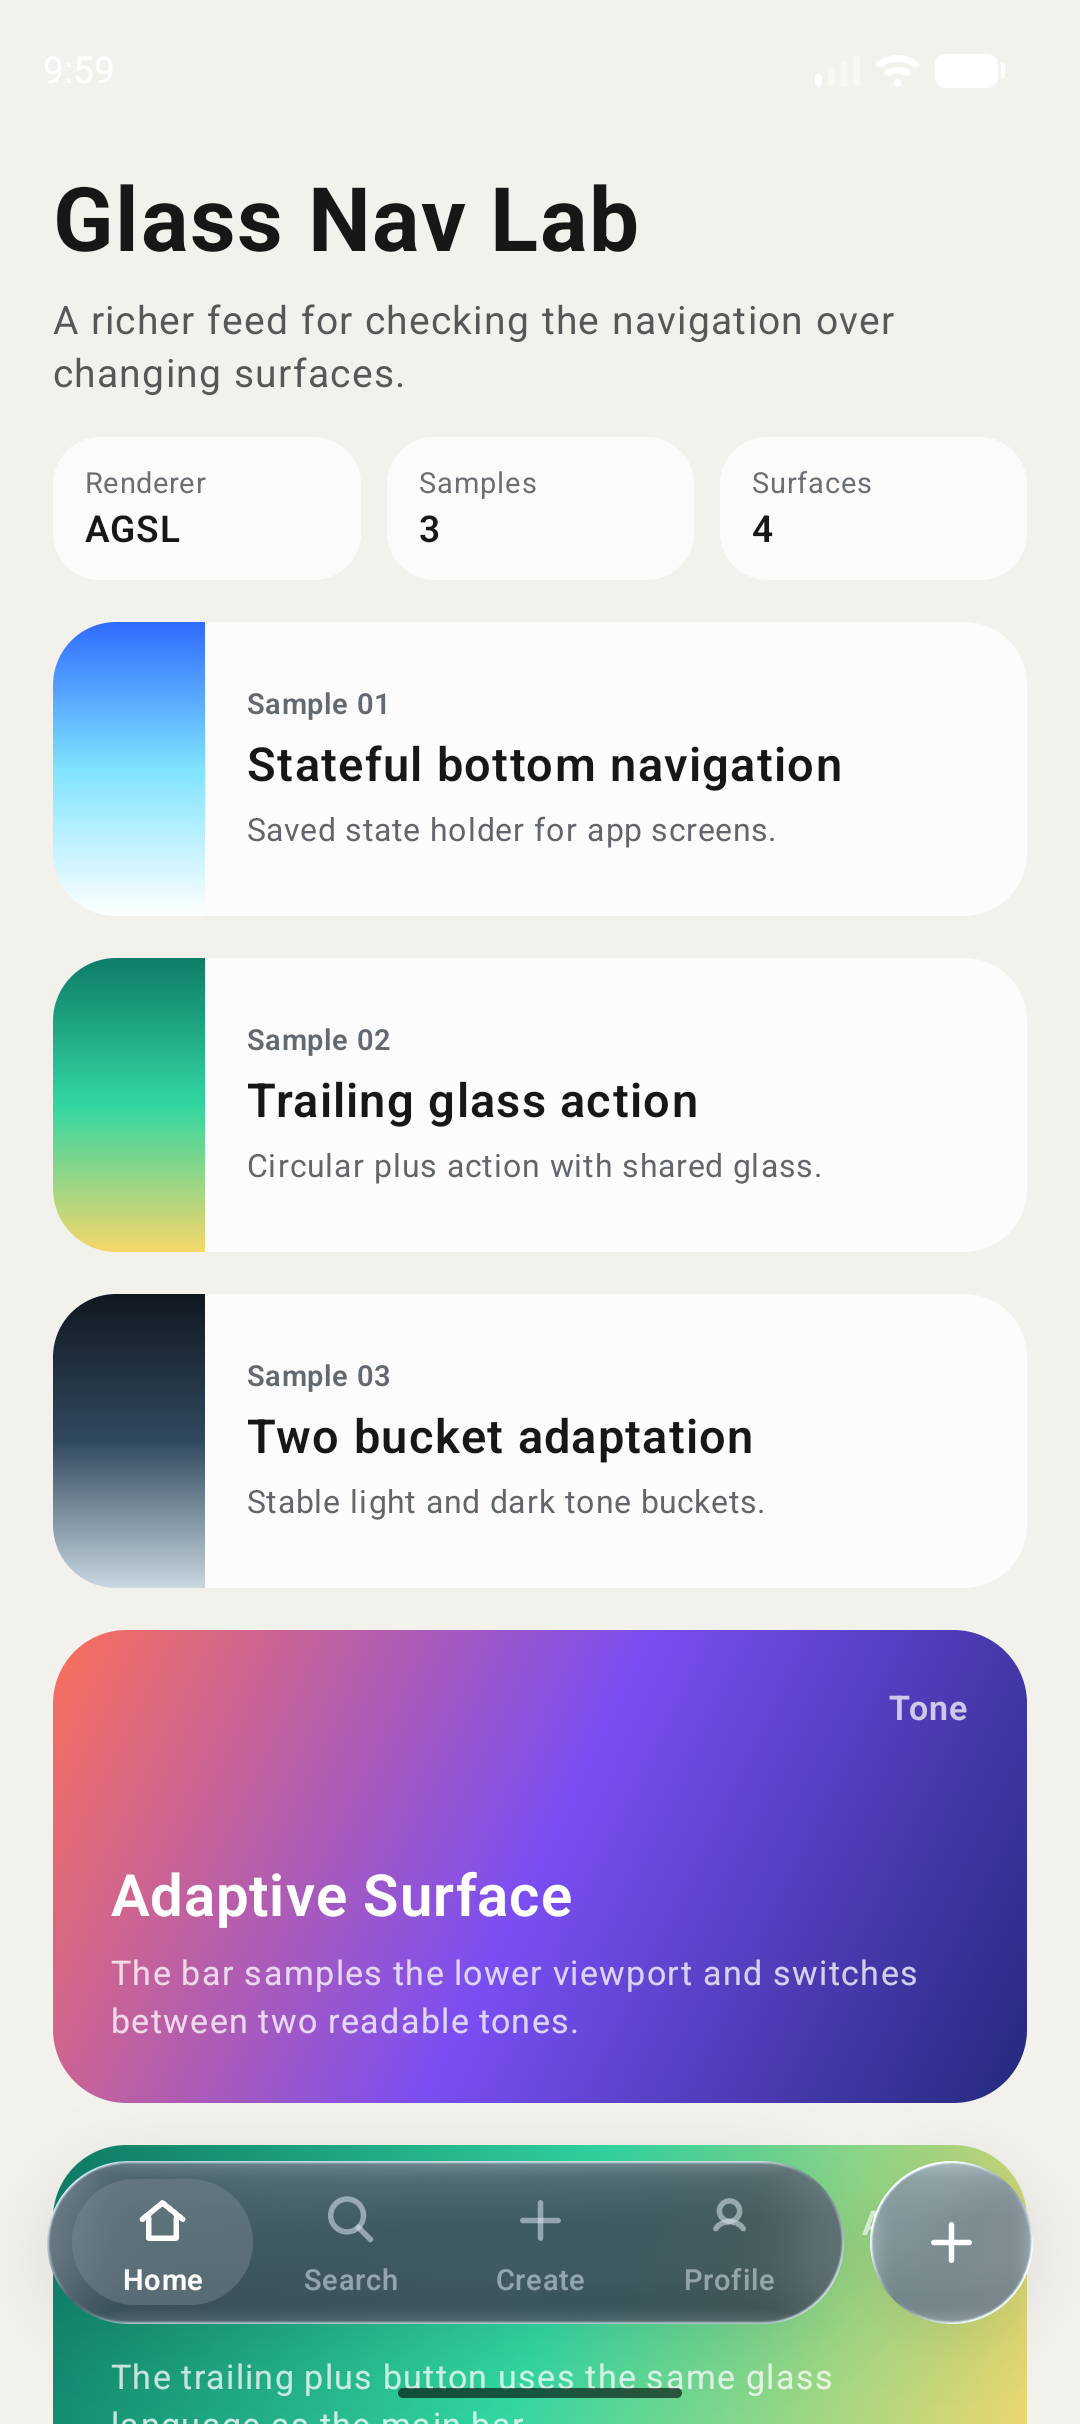
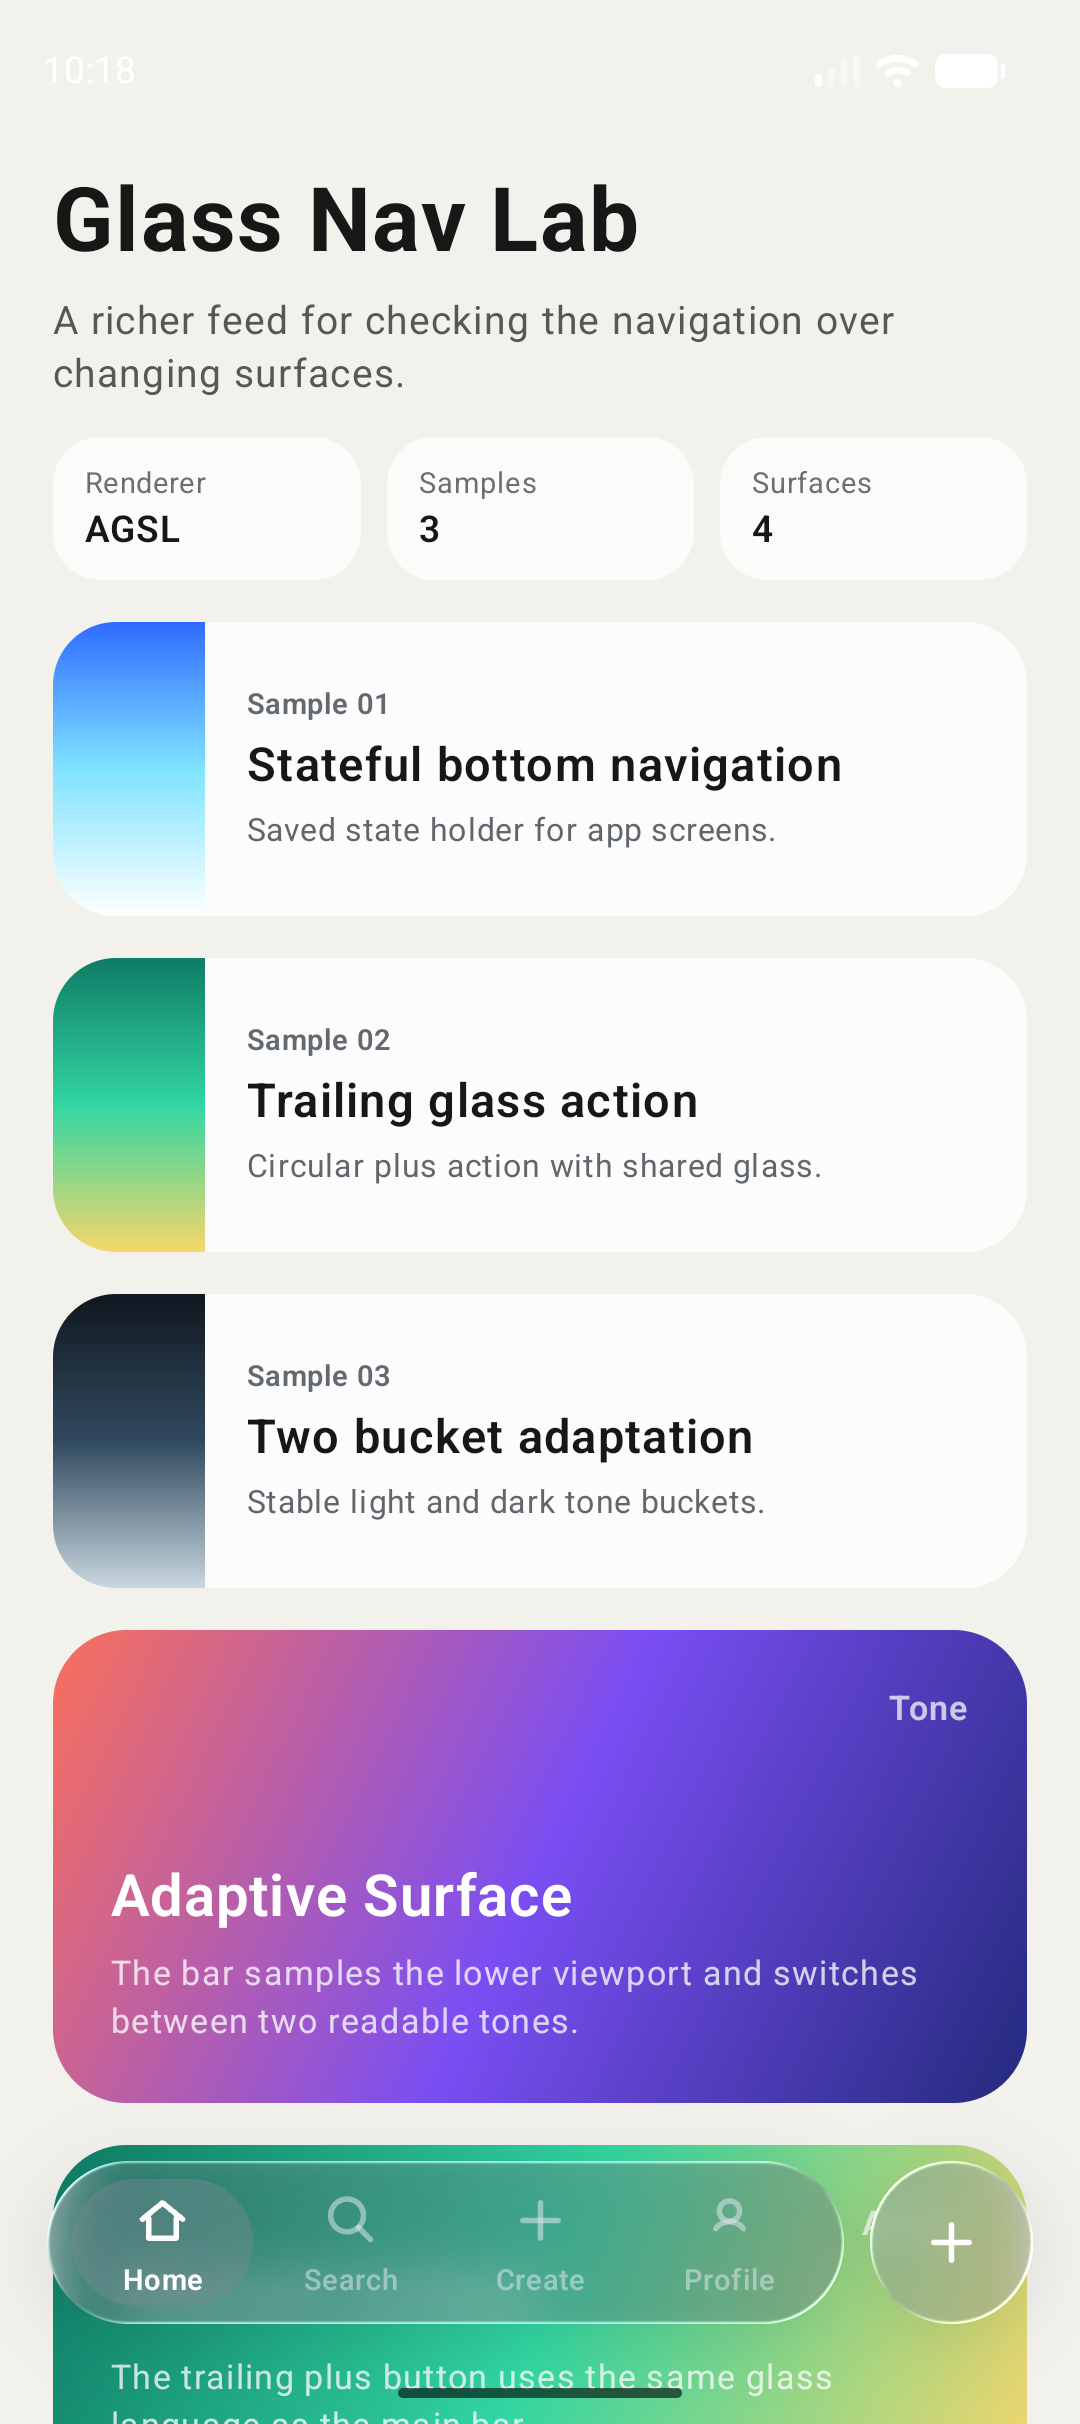
Restore transparent glass surface rendering

Changed region(s): [[0.0306, 0.8663, 0.9778, 0.9592]]

diff --git a/app/src/main/java/app/thdev/myapplication/ui/components/liquidglass/LiquidGlassBottomNavigation.kt b/app/src/main/java/app/thdev/myapplication/ui/components/liquidglass/LiquidGlassBottomNavigation.kt
@@ -485,18 +485,18 @@ private fun resolveLiquidGlassColors(
 
     return when (tone) {
         LiquidGlassTone.Light -> LiquidGlassResolvedColors(
-            containerSurfaceColor = Color.White.copy(alpha = 0.58f),
-            selectedSurfaceColor = Color.White.copy(alpha = 0.46f),
-            actionSurfaceColor = Color.White.copy(alpha = 0.64f),
+            containerSurfaceColor = Color.White.copy(alpha = 0.26f),
+            selectedSurfaceColor = Color.White.copy(alpha = 0.42f),
+            actionSurfaceColor = Color.White.copy(alpha = 0.30f),
             selectedContentColor = Color(0xFF111111),
             unselectedContentColor = Color(0xFF2F343A).copy(alpha = 0.52f),
             actionContentColor = Color(0xFF111111),
         )
 
         LiquidGlassTone.Dark -> LiquidGlassResolvedColors(
-            containerSurfaceColor = Color(0xFF2D363F).copy(alpha = 0.66f),
-            selectedSurfaceColor = Color(0xFF7E8A94).copy(alpha = 0.44f),
-            actionSurfaceColor = Color(0xFF55616B).copy(alpha = 0.68f),
+            containerSurfaceColor = Color(0xFF34414B).copy(alpha = 0.34f),
+            selectedSurfaceColor = Color(0xFF7E8A94).copy(alpha = 0.38f),
+            actionSurfaceColor = Color(0xFF65717B).copy(alpha = 0.36f),
             selectedContentColor = Color.White.copy(alpha = 0.98f),
             unselectedContentColor = Color(0xFFDCE6EF).copy(alpha = 0.54f),
             actionContentColor = Color.White.copy(alpha = 0.98f),

diff --git a/app/src/main/java/app/thdev/myapplication/ui/components/liquidglass/LiquidGlassAgslOverlay.kt b/app/src/main/java/app/thdev/myapplication/ui/components/liquidglass/LiquidGlassAgslOverlay.kt
@@ -98,8 +98,11 @@ half4 main(float2 coord) {
     color -= float3(shade);
     color = clamp(color, 0.0, 1.0);
 
-    float alpha = surfaceColor.a + rim * 0.045 + active * 0.035;
-    alpha = clamp(alpha, 0.0, 0.92);
+    float alpha = surfaceColor.a * 0.18
+        + rim * (0.030 + active * 0.025)
+        + upperSheen * 0.018
+        + liquid * active * 0.020;
+    alpha = clamp(alpha, 0.0, 0.18);
 
     return half4(color.r, color.g, color.b, alpha);
 }